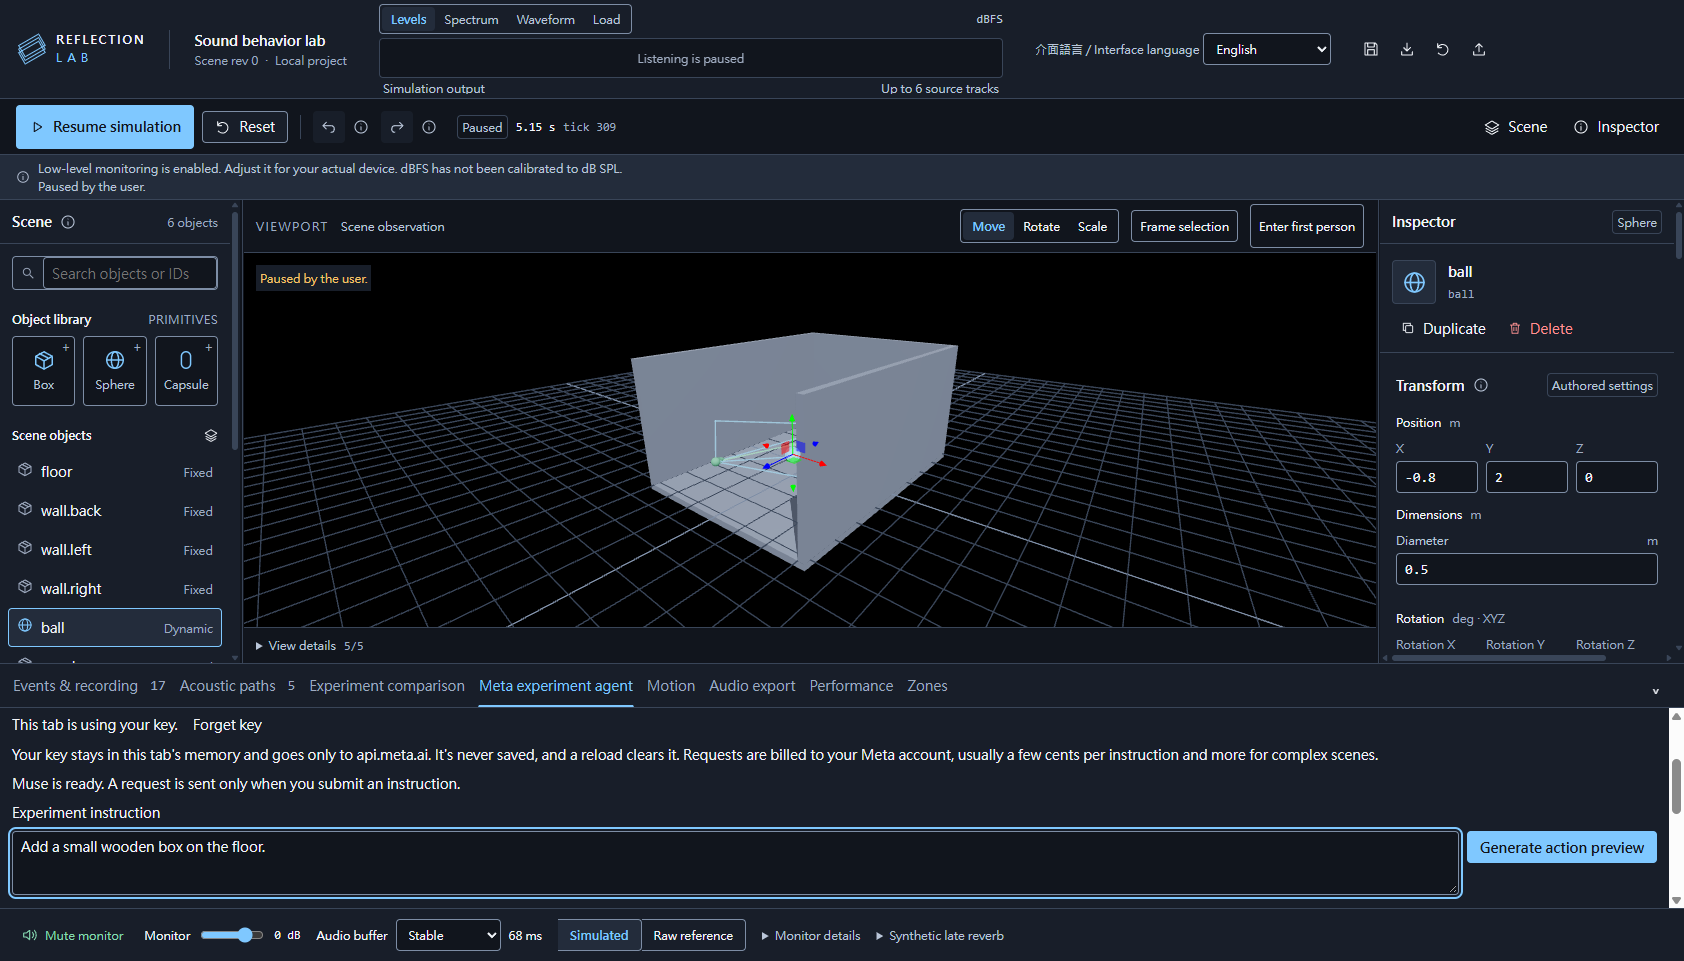
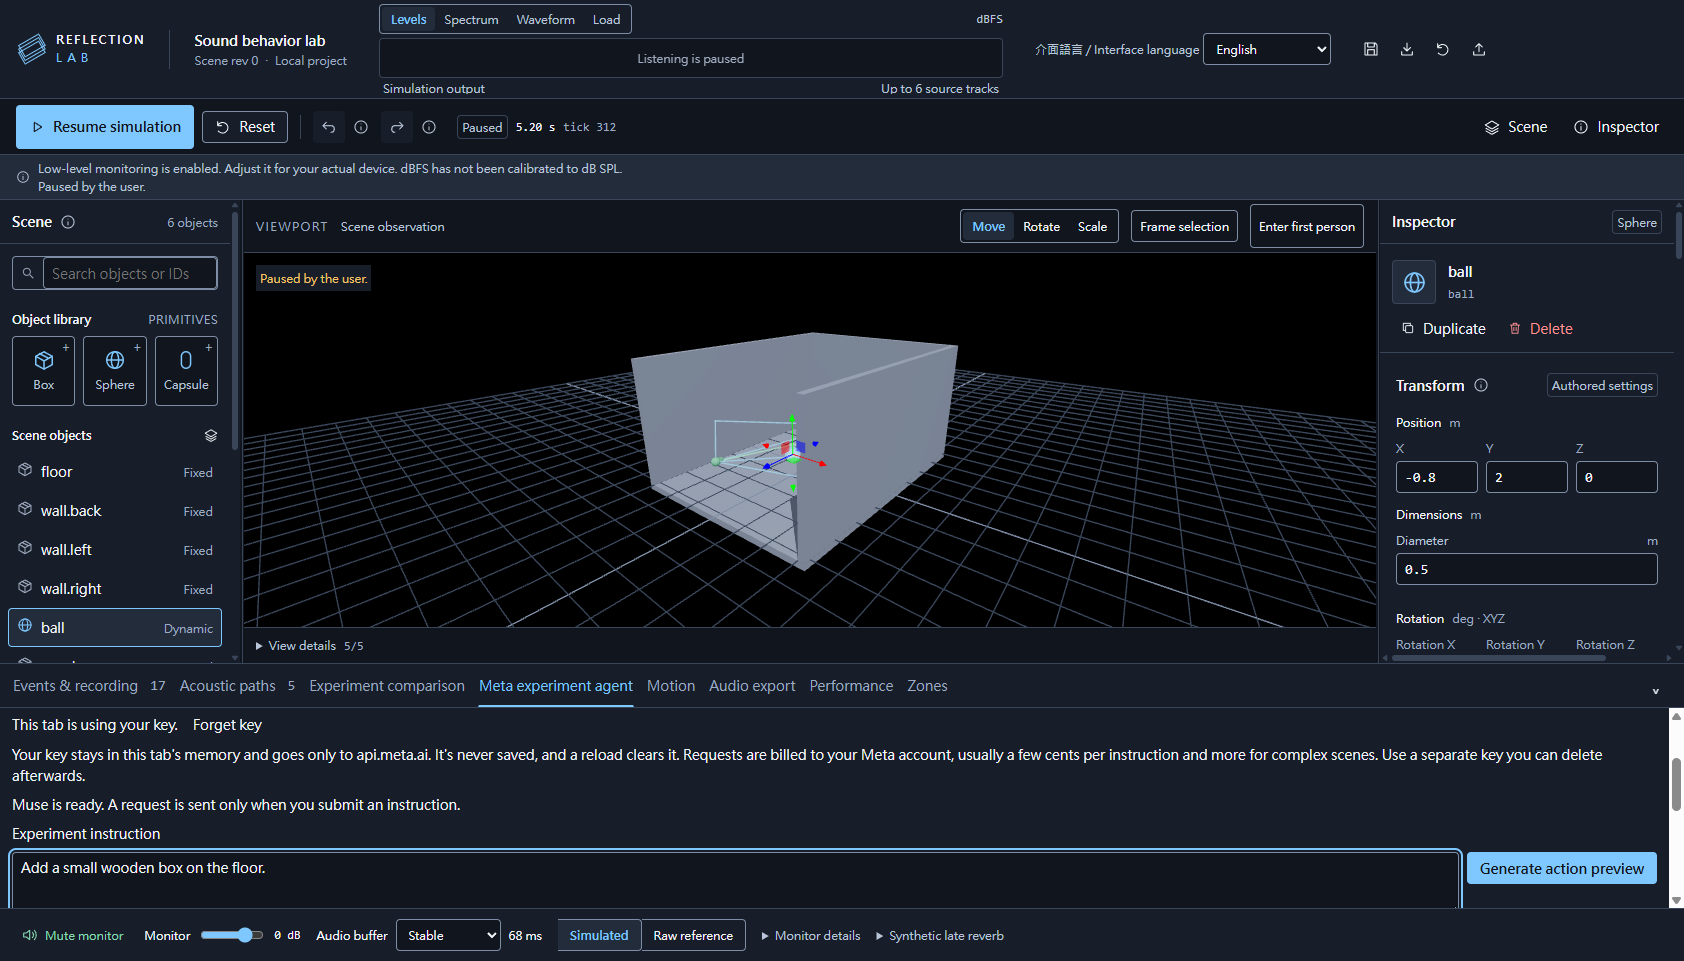
docs: tell visitors to use a separate key, as Meta's guidance advises
Meta's authentication docs say to keep keys out of browser code, proxy requests through a server you control and use a separate key for each app. The field's help text now tells visitors to use a separate key they can delete, and the record states the conflict for the owner to decide.

Changed region(s): [[0.0, 0.7804, 0.2779, 0.9365], [0.8337, 0.8429, 0.9881, 0.9365], [0.8337, 0.7804, 0.9572, 0.8117]]

diff --git a/src/ui/locales/explorer.ts b/src/ui/locales/explorer.ts
@@ -861,8 +861,8 @@ export const explorerMessages = {
   },
   "analysis.agent.keyHelp": {
     "zh-TW":
-      "金鑰只保留在此分頁的記憶體，也只會傳送到 api.meta.ai；不會儲存，重新載入頁面就會清除。請求由你的 Meta 帳號計費，通常每個指令幾美分，複雜場景會更多。",
-    en: "Your key stays in this tab's memory and goes only to api.meta.ai. It's never saved, and a reload clears it. Requests are billed to your Meta account, usually a few cents per instruction and more for complex scenes.",
+      "金鑰只保留在此分頁的記憶體，也只會傳送到 api.meta.ai；不會儲存，重新載入頁面就會清除。請求由你的 Meta 帳號計費，通常每個指令幾美分，複雜場景會更多。請使用可在事後刪除的專用金鑰。",
+    en: "Your key stays in this tab's memory and goes only to api.meta.ai. It's never saved, and a reload clears it. Requests are billed to your Meta account, usually a few cents per instruction and more for complex scenes. Use a separate key you can delete afterwards.",
   },
   "analysis.agent.keyHeld": {
     "zh-TW": "此分頁正在使用你的金鑰。",

diff --git a/src/ui/browser-key-field.test.ts b/src/ui/browser-key-field.test.ts
@@ -35,6 +35,8 @@ test("the help text says where the key goes, how long it stays and who pays", ()
   assert.match(help, /memory/i);
   assert.match(help, /reload/i);
   assert.match(help, /your Meta account|you pay/i);
+  assert.match(help, /separate key/i);
+  assert.match(help, /delete/i);
   const chinese = translate("zh-TW", "analysis.agent.keyHelp" as unknown as MessageKey);
   assert.match(chinese, /api\.meta\.ai/);
 });

diff --git a/README.en.md b/README.en.md
@@ -1,6 +1,6 @@
[2 lines of base64/hex data omitted]
 <!-- english-notice:start -->
[2 lines of base64/hex data omitted]
 <!-- english-notice:end -->
 
 <!-- english-original-anchor --> <a id="reflection-lab"></a>
@@ -106,7 +106,7 @@ npm run build:site
 This makes a static site in `dist-site` for hosts such as Cloudflare Pages. It has no server, so a visitor uses Muse with their own Meta API key. Everything else works without one.
 
 - **The key field** appears in the **Meta experiment agent** tab when **Meta Model API** is selected.
-- **The key** stays in the tab's memory and goes only to `api.meta.ai`. It's never saved, and a reload clears it.
+- **The key** stays in the tab's memory and goes only to `api.meta.ai`. It's never saved, and a reload clears it. [Meta's docs](https://dev.meta.ai/docs/authentication) advise keeping keys out of browser code, so use a separate key you can delete afterwards.
 - **Spending** goes to the visitor's Meta account. Each time a key is entered, the page stops at 40 requests or about US$3 of estimated cost, and it never retries on its own.
 - **The network rules** in `dist-site/_headers` only let the page's network requests reach itself and Meta, so the host has to apply that file.
 

diff --git a/docs/00-project/BROWSER_KEY_SITE_20261105.md b/docs/00-project/BROWSER_KEY_SITE_20261105.md
@@ -67,7 +67,7 @@ node tests/browser/meta-browser-access.mjs
 3. **The network rules have limits.** They stop fetch-style requests to other sites, but not a script navigating the page away, and no current browser rule can. They protect against third-party scripts, not against code already running in the page.
 4. **Visitors have to trust the host and the bundled dependencies.** Whoever controls the deployed page could change it to read the key. A visitor should use a key they can revoke.
 5. **The page allows `unsafe-eval`.** The validator library, Ajv, compiles its schemas at runtime, and the app only compiles schemas in its own bundle. Precompiling them would remove this, but it means changing code the local app shares.
-6. **Meta's terms for keys in a browser haven't been reviewed.** The owner should check them before deploying.
+6. **Meta's guidance points the other way.** Its [authentication docs](https://dev.meta.ai/docs/authentication) say to keep keys out of browser code, to proxy requests through a server you control, and to use a separate key for each app. They warn that a leaked key can use up rate limits, access uploaded files and send requests. A visitor typing their own key isn't the same as shipping a key in page code, but the key is still in the browser. A proxy would follow the guidance, but the proxy's owner could then see visitors' keys. The field's help text tells visitors to use a separate key they can delete. Meta's terms themselves weren't read, because `dev.meta.ai/terms` doesn't exist and no other terms page was found, so the owner should check them before deploying.
 7. **Licence gaps remain.** Hosting a compiled bundle is distribution. `third-party-notices.txt` lists the 15 bundled packages, but the [third-party notices](../01-compliance/V1_THIRD_PARTY_NOTICES.md) still record six open gaps, including React Three Fiber's source lineage and Rapier's exact Rust and WASM dependencies.
 8. **The check on a copy of the scene runs on the main thread.** A large proposal could briefly hold up the page.
 9. **The network rules need a host that reads `_headers`,** such as Cloudflare Pages. On any other host, the key would have less protection.

diff --git a/README.md b/README.md
@@ -94,7 +94,7 @@ npm run build:site
 This makes a static site in `dist-site` for hosts such as Cloudflare Pages. It has no server, so a visitor uses Muse with their own Meta API key. Everything else works without one.
 
 - **The key field** appears in the **Meta experiment agent** tab when **Meta Model API** is selected.
-- **The key** stays in the tab's memory and goes only to `api.meta.ai`. It's never saved, and a reload clears it.
+- **The key** stays in the tab's memory and goes only to `api.meta.ai`. It's never saved, and a reload clears it. [Meta's docs](https://dev.meta.ai/docs/authentication) advise keeping keys out of browser code, so use a separate key you can delete afterwards.
 - **Spending** goes to the visitor's Meta account. Each time a key is entered, the page stops at 40 requests or about US$3 of estimated cost, and it never retries on its own.
 - **The network rules** in `dist-site/_headers` only let the page's network requests reach itself and Meta, so the host has to apply that file.
 
